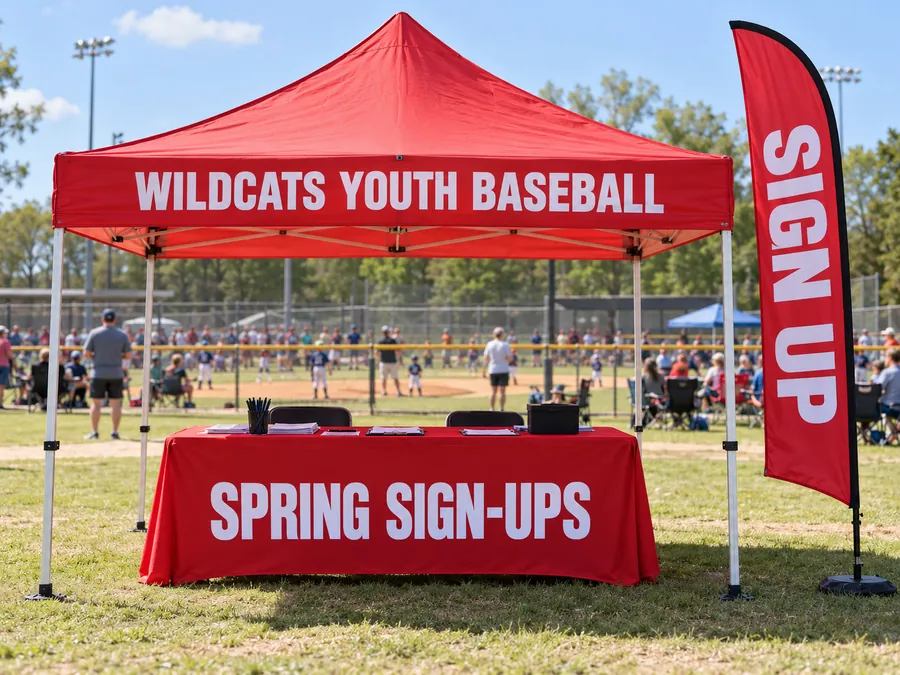
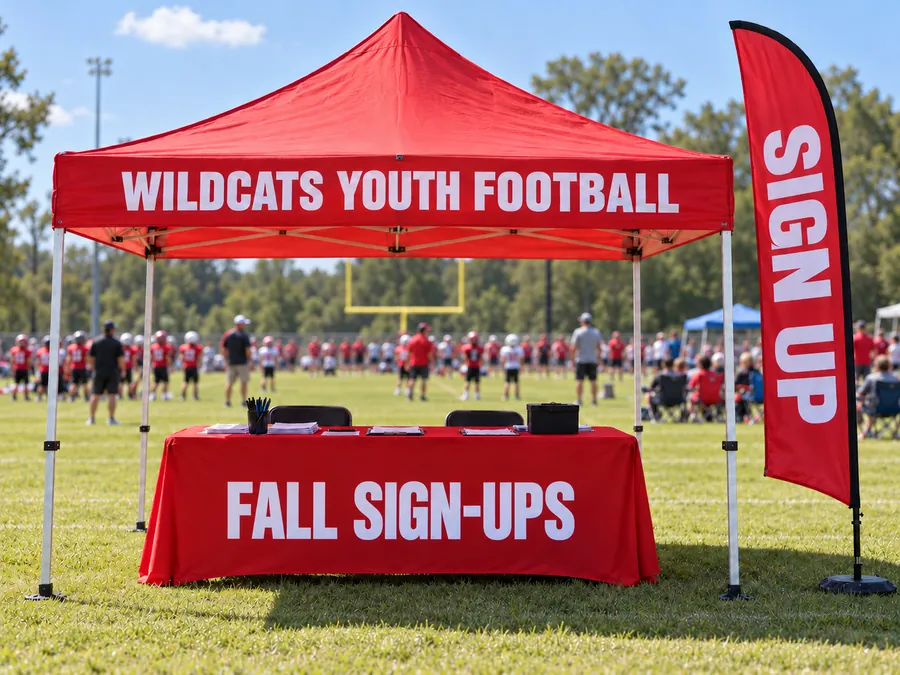
Switch tent and table throw photos to fall football
Scott's updated ChatGPT set: Wildcats Youth Football with Fall Sign-Ups
on the tent hero, canopy, events tile and blue table throw, plus a
football tent close-up. Home page alt text now says football.

Claude-Session: https://claude.ai/code/session_01MKoDUcjppXBpHwgJhSGGeU

diff --git a/index.html b/index.html
@@ -198,7 +198,7 @@
     <div class="uses">
       <figure class="use u-big"><picture><source srcset="/assets/img/u-business.webp" type="image/webp"><img src="/assets/img/u-business.jpg" alt="Grand opening banner over a coffee shop entrance" width="900" height="563" loading="lazy"></picture><figcaption><h3>Local businesses</h3><p>Grand openings, storefronts, trucks and trade shows.</p></figcaption></figure>
       <figure class="use u-big"><picture><source srcset="/assets/img/u-schools.webp" type="image/webp"><img src="/assets/img/u-schools.jpg" alt="Senior night banner on a ballfield fence" width="900" height="563" loading="lazy"></picture><figcaption><h3>Schools &amp; teams</h3><p>Senior night, sponsor banners, sign-ups and spirit.</p></figcaption></figure>
-      <figure class="use"><picture><source srcset="/assets/img/u-events.webp" type="image/webp"><img src="/assets/img/u-events.jpg" alt="Custom canopy tent and table throw at a youth baseball sign-up" width="700" height="525" loading="lazy"></picture><figcaption><h3>Events</h3><p>Tents, backdrops, table throws and flags that match.</p></figcaption></figure>
+      <figure class="use"><picture><source srcset="/assets/img/u-events.webp" type="image/webp"><img src="/assets/img/u-events.jpg" alt="Custom canopy tent and table throw at a youth football sign-up" width="700" height="525" loading="lazy"></picture><figcaption><h3>Events</h3><p>Tents, backdrops, table throws and flags that match.</p></figcaption></figure>
       <figure class="use"><picture><source srcset="/assets/img/u-realestate.webp" type="image/webp"><img src="/assets/img/u-realestate.jpg" alt="For sale real estate sign with open house rider" width="700" height="525" loading="lazy"></picture><figcaption><h3>Real estate</h3><p>For sale signs, riders, post frames and car magnets.</p></figcaption></figure>
       <figure class="use"><picture><source srcset="/assets/img/u-holidays.webp" type="image/webp"><img src="/assets/img/u-holidays.jpg" alt="Personalized Christmas family name banner on a porch" width="700" height="525" loading="lazy"></picture><figcaption><h3>Holidays</h3><p>Christmas, Halloween, Thanksgiving, birthdays and more.</p></figcaption></figure>
     </div>

diff --git a/src/site-src-index.tpl.html b/src/site-src-index.tpl.html
@@ -129,7 +129,7 @@
     <div class="uses">
       <figure class="use u-big"><picture><source srcset="assets/img/u-business.webp" type="image/webp"><img src="assets/img/u-business.jpg" alt="Grand opening banner over a coffee shop entrance" width="900" height="563" loading="lazy"></picture><figcaption><h3>Local businesses</h3><p>Grand openings, storefronts, trucks and trade shows.</p></figcaption></figure>
       <figure class="use u-big"><picture><source srcset="assets/img/u-schools.webp" type="image/webp"><img src="assets/img/u-schools.jpg" alt="Senior night banner on a ballfield fence" width="900" height="563" loading="lazy"></picture><figcaption><h3>Schools &amp; teams</h3><p>Senior night, sponsor banners, sign-ups and spirit.</p></figcaption></figure>
-      <figure class="use"><picture><source srcset="assets/img/u-events.webp" type="image/webp"><img src="assets/img/u-events.jpg" alt="Custom canopy tent and table throw at a youth baseball sign-up" width="700" height="525" loading="lazy"></picture><figcaption><h3>Events</h3><p>Tents, backdrops, table throws and flags that match.</p></figcaption></figure>
+      <figure class="use"><picture><source srcset="assets/img/u-events.webp" type="image/webp"><img src="assets/img/u-events.jpg" alt="Custom canopy tent and table throw at a youth football sign-up" width="700" height="525" loading="lazy"></picture><figcaption><h3>Events</h3><p>Tents, backdrops, table throws and flags that match.</p></figcaption></figure>
       <figure class="use"><picture><source srcset="assets/img/u-realestate.webp" type="image/webp"><img src="assets/img/u-realestate.jpg" alt="For sale real estate sign with open house rider" width="700" height="525" loading="lazy"></picture><figcaption><h3>Real estate</h3><p>For sale signs, riders, post frames and car magnets.</p></figcaption></figure>
       <figure class="use"><picture><source srcset="assets/img/u-holidays.webp" type="image/webp"><img src="assets/img/u-holidays.jpg" alt="Personalized Christmas family name banner on a porch" width="700" height="525" loading="lazy"></picture><figcaption><h3>Holidays</h3><p>Christmas, Halloween, Thanksgiving, birthdays and more.</p></figcaption></figure>
     </div>
